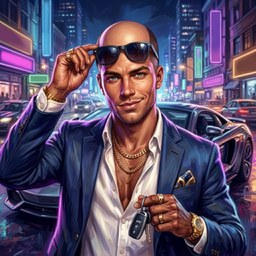
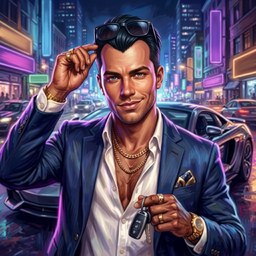
Duelo v41: Dudu com entradas

diff --git a/duelo/service-worker.js b/duelo/service-worker.js
@@ -1,4 +1,4 @@
-const CACHE="duelo-v40";
+const CACHE="duelo-v41";
 const FILES=["./","index.html","manifest.webmanifest","icon-192-v2.png","icon-512-v2.png","icon-mask-v2.png","img/a_n20.jpg","img/a_n21.jpg","img/a_n22.jpg","img/a_n23.jpg","img/a_n24.jpg","img/a_n25.jpg","img/a_n26.jpg","img/a_n27.jpg","img/a_n28.jpg","img/a_n29.jpg","img/a_n30.jpg","img/a_g8.jpg","img/a_c5.jpg","img/a_o6.jpg","img/a_z7.jpg","img/a_z8.jpg","img/a_d1.jpg","img/a_d3.jpg","img/a_d5.jpg","img/a_d6.jpg","img/a_i1.jpg","img/a_i2.jpg","img/a_i3.jpg","img/a_i5.jpg","img/a_i6.jpg","img/a_i7.jpg","img/a_pi1.jpg","img/a_pi2.jpg","img/a_pi3.jpg","img/a_pi4.jpg","img/a_pi5.jpg","img/a_pi6.jpg","img/a_pi7.jpg","img/a_pi8.jpg","img/a_pi9.jpg","img/a_pi10.jpg","img/a_pi11.jpg","img/a_pi12.jpg","img/a_te1.jpg","img/a_te2.jpg","img/a_te3.jpg","img/a_te4.jpg","img/a_te5.jpg","img/a_te6.jpg","img/a_te7.jpg","img/a_te8.jpg","img/a_te9.jpg","img/a_te10.jpg","img/a_te11.jpg","img/a_te12.jpg","img/a_du1.jpg","img/a_du2.jpg","img/a_du3.jpg","img/a_du4.jpg","img/a_du5.jpg","img/a_du6.jpg","img/a_du7.jpg","img/a_du8.jpg","img/a_du9.jpg","img/a_du10.jpg","img/a_du11.jpg","img/a_du12.jpg","img/a_sn1.jpg","img/a_sn2.jpg","img/a_sn3.jpg","img/a_sn4.jpg","img/a_sn5.jpg","img/a_sn6.jpg","img/a_sn7.jpg","img/a_sn8.jpg","img/a_sn9.jpg","img/a_sn10.jpg","img/a_sn11.jpg","img/a_sn12.jpg","img/a_ca1.jpg","img/a_ca2.jpg","img/a_ca3.jpg","img/a_ca4.jpg","img/a_ca5.jpg","img/a_ca6.jpg","img/a_ca7.jpg","img/a_ca8.jpg","img/a_ca9.jpg","img/a_ca10.jpg","img/a_ca11.jpg","img/a_ca12.jpg","img/a_ne1.jpg","img/a_ne2.jpg","img/a_ne3.jpg","img/a_ne4.jpg","img/a_ne5.jpg","img/a_ne6.jpg","img/a_ne7.jpg","img/a_ne8.jpg","img/a_ne9.jpg","img/a_ne10.jpg","img/a_ne11.jpg","img/a_ne12.jpg","img/a_b1.jpg","img/a_b2.jpg","img/a_b3.jpg","img/a_b4.jpg","img/a_b5.jpg","img/a_b6.jpg","img/a_b7.jpg","img/e1.jpg","img/e2.jpg","img/e3.jpg","img/e4.jpg","img/e5.jpg","img/intro_carta.png","img/intro_dragao.jpg","img/intro_fogo.mp3","img/intro_hora.mp3","img/m1.jpg","img/m10.jpg","img/m11.jpg","img/m12.jpg","img/m13.jpg","img/m14.jpg","img/m15.jpg","img/m16.jpg","img/m17.jpg","img/m18.jpg","img/m19.jpg","img/m2.jpg","img/m20.jpg","img/m21.jpg","img/m3.jpg","img/m4.jpg","img/m5.jpg","img/m6.jpg","img/m7.jpg","img/m8.jpg","img/m9.jpg","img/n1.jpg","img/n10.jpg","img/n11.jpg","img/n12.jpg","img/n13.jpg","img/n14.jpg","img/n15.jpg","img/n16.jpg","img/n17.jpg","img/n18.jpg","img/n2.jpg","img/n3.jpg","img/n4.jpg","img/n5.jpg","img/n6.jpg","img/n7.jpg","img/n8.jpg","img/n9.jpg","img/p_caio.jpg","img/p_dudu.jpg","img/p_iara.jpg","img/p_milao.jpg","img/p_nando.jpg","img/p_neri.jpg","img/p_otavio.jpg","img/p_pimp.jpg","img/p_snaf.jpg","img/p_telo.jpg","img/p_tiao.jpg","img/p_zeca.jpg","img/s1.jpg","img/s2.jpg","img/s3.jpg","img/s4.jpg","img/s5.jpg","img/s6.jpg","img/s7.jpg","img/s8.jpg","img/s9.jpg","img/t1.jpg","img/t2.jpg","img/t3.jpg","img/t4.jpg","voz/cabeca/atk0.mp3","voz/cabeca/atk1.mp3","voz/cabeca/atk2.mp3","voz/cabeca/atk3.mp3","voz/cabeca/atk4.mp3","voz/cabeca/c_ca10.mp3","voz/cabeca/c_ca11.mp3","voz/cabeca/c_ca12.mp3","voz/cabeca/c_ca9.mp3","voz/cabeca/c_g1.mp3","voz/cabeca/c_g2.mp3","voz/cabeca/c_g3.mp3","voz/cabeca/c_g4.mp3","voz/cabeca/c_g5.mp3","voz/cabeca/c_g6.mp3","voz/cabeca/c_g7.mp3","voz/cabeca/c_g8.mp3","voz/cabeca/c_n20.mp3","voz/cabeca/c_n22.mp3","voz/cabeca/c_n24.mp3","voz/cabeca/c_s2.mp3","voz/cabeca/c_s3.mp3","voz/cabeca/c_s4.mp3","voz/cabeca/c_s5.mp3","voz/cabeca/c_s7.mp3","voz/cabeca/c_t1.mp3","voz/cabeca/c_t2.mp3","voz/cabeca/c_t3.mp3","voz/cabeca/c_t4.mp3","voz/cabeca/dano0.mp3","voz/cabeca/dano1.mp3","voz/cabeca/dano2.mp3","voz/cabeca/dano3.mp3","voz/cabeca/dano4.mp3","voz/cabeca/dano5.mp3","voz/cabeca/ganhei0.mp3","voz/cabeca/inicio0.mp3","voz/cabeca/inv0.mp3","voz/cabeca/inv1.mp3","voz/cabeca/inv2.mp3","voz/cabeca/inv3.mp3","voz/cabeca/inv4.mp3","voz/cabeca/magia0.mp3","voz/cabeca/magia1.mp3","voz/cabeca/magia2.mp3","voz/cabeca/magia3.mp3","voz/cabeca/pass0.mp3","voz/cabeca/pass1.mp3","voz/cabeca/pass2.mp3","voz/cabeca/pass3.mp3","voz/cabeca/perdi0.mp3","voz/cabeca/perdi1.mp3","voz/cabeca/reage0.mp3","voz/cabeca/reage1.mp3","voz/cabeca/reage2.mp3","voz/cabeca/reage3.mp3","voz/cabeca/reage4.mp3","voz/cabeca/reage5.mp3","voz/cabeca/reage6.mp3","voz/cabeca/reage7.mp3","voz/cabeca/susto0.mp3","voz/cabeca/susto1.mp3","voz/cabeca/susto2.mp3","voz/cabeca/susto3.mp3","voz/caio/atk0.mp3","voz/caio/atk1.mp3","voz/caio/atk2.mp3","voz/caio/atk3.mp3","voz/caio/atk4.mp3","voz/caio/c_g1.mp3","voz/caio/c_g2.mp3","voz/caio/c_g3.mp3","voz/caio/c_g4.mp3","voz/caio/c_g5.mp3","voz/caio/c_g7.mp3","voz/caio/c_n3.mp3","voz/caio/c_s1.mp3","voz/caio/c_s3.mp3","voz/caio/c_s4.mp3","voz/caio/c_s5.mp3","voz/caio/c_s6.mp3","voz/caio/c_s7.mp3","voz/caio/c_s8.mp3","voz/caio/c_s9.mp3","voz/caio/c_t1.mp3","voz/caio/c_t2.mp3","voz/caio/c_t3.mp3","voz/caio/c_t4.mp3","voz/caio/dano0.mp3","voz/caio/dano1.mp3","voz/caio/dano2.mp3","voz/caio/dano3.mp3","voz/caio/dano4.mp3","voz/caio/dano5.mp3","voz/caio/ganhei0.mp3","voz/caio/inicio0.mp3","voz/caio/inv0.mp3","voz/caio/inv1.mp3","voz/caio/inv2.mp3","voz/caio/inv3.mp3","voz/caio/inv4.mp3","voz/caio/magia0.mp3","voz/caio/magia1.mp3","voz/caio/magia2.mp3","voz/caio/magia3.mp3","voz/caio/pass0.mp3","voz/caio/pass1.mp3","voz/caio/pass2.mp3","voz/caio/pass3.mp3","voz/caio/perdi0.mp3","voz/caio/perdi1.mp3","voz/caio/reage0.mp3","voz/caio/reage1.mp3","voz/caio/reage2.mp3","voz/caio/reage3.mp3","voz/caio/reage4.mp3","voz/caio/reage5.mp3","voz/caio/reage6.mp3","voz/caio/reage7.mp3","voz/caio/susto0.mp3","voz/caio/susto1.mp3","voz/caio/susto2.mp3","voz/caio/susto3.mp3","voz/conde/atk0.mp3","voz/conde/atk1.mp3","voz/conde/atk2.mp3","voz/conde/atk3.mp3","voz/conde/atk4.mp3","voz/conde/c_b2.mp3","voz/conde/c_b3.mp3","voz/conde/c_b4.mp3","voz/conde/c_g1.mp3","voz/conde/c_g2.mp3","voz/conde/c_g3.mp3","voz/conde/c_g4.mp3","voz/conde/c_g5.mp3","voz/conde/c_g6.mp3","voz/conde/c_g7.mp3","voz/conde/c_n18.mp3","voz/conde/c_n3.mp3","voz/conde/c_s1.mp3","voz/conde/c_s3.mp3","voz/conde/c_s4.mp3","voz/conde/c_s5.mp3","voz/conde/c_s6.mp3","voz/conde/c_s7.mp3","voz/conde/c_s8.mp3","voz/conde/c_s9.mp3","voz/conde/c_t1.mp3","voz/conde/c_t2.mp3","voz/conde/c_t3.mp3","voz/conde/c_t4.mp3","voz/conde/dano0.mp3","voz/conde/dano1.mp3","voz/conde/dano2.mp3","voz/conde/dano3.mp3","voz/conde/dano4.mp3","voz/conde/dano5.mp3","voz/conde/ganhei0.mp3","voz/conde/inicio0.mp3","voz/conde/inv0.mp3","voz/conde/inv1.mp3","voz/conde/inv2.mp3","voz/conde/inv3.mp3","voz/conde/inv4.mp3","voz/conde/magia0.mp3","voz/conde/magia1.mp3","voz/conde/magia2.mp3","voz/conde/magia3.mp3","voz/conde/pass0.mp3","voz/conde/pass1.mp3","voz/conde/pass2.mp3","voz/conde/pass3.mp3","voz/conde/perdi0.mp3","voz/conde/perdi1.mp3","voz/conde/reage0.mp3","voz/conde/reage1.mp3","voz/conde/reage2.mp3","voz/conde/reage3.mp3","voz/conde/reage4.mp3","voz/conde/reage5.mp3","voz/conde/reage6.mp3","voz/conde/reage7.mp3","voz/conde/susto0.mp3","voz/conde/susto1.mp3","voz/conde/susto2.mp3","voz/conde/susto3.mp3","voz/dudu/atk0.mp3","voz/dudu/atk1.mp3","voz/dudu/atk2.mp3","voz/dudu/atk3.mp3","voz/dudu/atk4.mp3","voz/dudu/c_du10.mp3","voz/dudu/c_du11.mp3","voz/dudu/c_du12.mp3","voz/dudu/c_du9.mp3","voz/dudu/c_g1.mp3","voz/dudu/c_g2.mp3","voz/dudu/c_g3.mp3","voz/dudu/c_g4.mp3","voz/dudu/c_g5.mp3","voz/dudu/c_g6.mp3","voz/dudu/c_g7.mp3","voz/dudu/c_n11.mp3","voz/dudu/c_n7.mp3","voz/dudu/c_s2.mp3","voz/dudu/c_s3.mp3","voz/dudu/c_s4.mp3","voz/dudu/c_s5.mp3","voz/dudu/c_s7.mp3","voz/dudu/c_s8.mp3","voz/dudu/c_s9.mp3","voz/dudu/c_t1.mp3","voz/dudu/c_t2.mp3","voz/dudu/c_t3.mp3","voz/dudu/c_t4.mp3","voz/dudu/dano0.mp3","voz/dudu/dano1.mp3","voz/dudu/dano2.mp3","voz/dudu/dano3.mp3","voz/dudu/dano4.mp3","voz/dudu/dano5.mp3","voz/dudu/ganhei0.mp3","voz/dudu/inicio0.mp3","voz/dudu/inv0.mp3","voz/dudu/inv1.mp3","voz/dudu/inv2.mp3","voz/dudu/inv3.mp3","voz/dudu/inv4.mp3","voz/dudu/magia0.mp3","voz/dudu/magia1.mp3","voz/dudu/magia2.mp3","voz/dudu/magia3.mp3","voz/dudu/pass0.mp3","voz/dudu/pass1.mp3","voz/dudu/pass2.mp3","voz/dudu/pass3.mp3","voz/dudu/perdi0.mp3","voz/dudu/perdi1.mp3","voz/dudu/reage0.mp3","voz/dudu/reage1.mp3","voz/dudu/reage2.mp3","voz/dudu/reage3.mp3","voz/dudu/reage4.mp3","voz/dudu/reage5.mp3","voz/dudu/reage6.mp3","voz/dudu/reage7.mp3","voz/dudu/susto0.mp3","voz/dudu/susto1.mp3","voz/dudu/susto2.mp3","voz/dudu/susto3.mp3","voz/iara/atk0.mp3","voz/iara/atk1.mp3","voz/iara/atk2.mp3","voz/iara/atk3.mp3","voz/iara/atk4.mp3","voz/iara/c_g1.mp3","voz/iara/c_g2.mp3","voz/iara/c_g3.mp3","voz/iara/c_g4.mp3","voz/iara/c_g5.mp3","voz/iara/c_g6.mp3","voz/iara/c_g7.mp3","voz/iara/c_g8.mp3","voz/iara/c_i6.mp3","voz/iara/c_i7.mp3","voz/iara/c_n24.mp3","voz/iara/c_n30.mp3","voz/iara/c_s3.mp3","voz/iara/c_s4.mp3","voz/iara/c_s5.mp3","voz/iara/c_s6.mp3","voz/iara/c_s7.mp3","voz/iara/c_s8.mp3","voz/iara/c_s9.mp3","voz/iara/c_t1.mp3","voz/iara/c_t2.mp3","voz/iara/c_t3.mp3","voz/iara/c_t4.mp3","voz/iara/dano0.mp3","voz/iara/dano1.mp3","voz/iara/dano2.mp3","voz/iara/dano3.mp3","voz/iara/dano4.mp3","voz/iara/dano5.mp3","voz/iara/ganhei0.mp3","voz/iara/inicio0.mp3","voz/iara/inv0.mp3","voz/iara/inv1.mp3","voz/iara/inv2.mp3","voz/iara/inv3.mp3","voz/iara/inv4.mp3","voz/iara/magia0.mp3","voz/iara/magia1.mp3","voz/iara/magia2.mp3","voz/iara/magia3.mp3","voz/iara/pass0.mp3","voz/iara/pass1.mp3","voz/iara/pass2.mp3","voz/iara/pass3.mp3","voz/iara/perdi0.mp3","voz/iara/perdi1.mp3","voz/iara/reage0.mp3","voz/iara/reage1.mp3","voz/iara/reage2.mp3","voz/iara/reage3.mp3","voz/iara/reage4.mp3","voz/iara/reage5.mp3","voz/iara/reage6.mp3","voz/iara/reage7.mp3","voz/iara/susto0.mp3","voz/iara/susto1.mp3","voz/iara/susto2.mp3","voz/iara/susto3.mp3","voz/nando/atk0.mp3","voz/nando/atk1.mp3","voz/nando/atk2.mp3","voz/nando/atk3.mp3","voz/nando/atk4.mp3","voz/nando/c_d6.mp3","voz/nando/c_g1.mp3","voz/nando/c_g2.mp3","voz/nando/c_g3.mp3","voz/nando/c_g4.mp3","voz/nando/c_g5.mp3","voz/nando/c_g6.mp3","voz/nando/c_g7.mp3","voz/nando/c_g8.mp3","voz/nando/c_n20.mp3","voz/nando/c_n22.mp3","voz/nando/c_n23.mp3","voz/nando/c_n24.mp3","voz/nando/c_s2.mp3","voz/nando/c_s3.mp3","voz/nando/c_s4.mp3","voz/nando/c_s5.mp3","voz/nando/c_s7.mp3","voz/nando/c_s8.mp3","voz/nando/c_t1.mp3","voz/nando/c_t2.mp3","voz/nando/c_t3.mp3","voz/nando/c_t4.mp3","voz/nando/dano0.mp3","voz/nando/dano1.mp3","voz/nando/dano2.mp3","voz/nando/dano3.mp3","voz/nando/dano4.mp3","voz/nando/dano5.mp3","voz/nando/ganhei0.mp3","voz/nando/inicio0.mp3","voz/nando/inv0.mp3","voz/nando/inv1.mp3","voz/nando/inv2.mp3","voz/nando/inv3.mp3","voz/nando/inv4.mp3","voz/nando/magia0.mp3","voz/nando/magia1.mp3","voz/nando/magia2.mp3","voz/nando/magia3.mp3","voz/nando/pass0.mp3","voz/nando/pass1.mp3","voz/nando/pass2.mp3","voz/nando/pass3.mp3","voz/nando/perdi0.mp3","voz/nando/perdi1.mp3","voz/nando/reage0.mp3","voz/nando/reage1.mp3","voz/nando/reage2.mp3","voz/nando/reage3.mp3","voz/nando/reage4.mp3","voz/nando/reage5.mp3","voz/nando/reage6.mp3","voz/nando/reage7.mp3","voz/nando/susto0.mp3","voz/nando/susto1.mp3","voz/nando/susto2.mp3","voz/nando/susto3.mp3","voz/neri/atk0.mp3","voz/neri/atk1.mp3","voz/neri/atk2.mp3","voz/neri/atk3.mp3","voz/neri/atk4.mp3","voz/neri/c_g1.mp3","voz/neri/c_g2.mp3","voz/neri/c_g3.mp3","voz/neri/c_g4.mp3","voz/neri/c_g5.mp3","voz/neri/c_g6.mp3","voz/neri/c_g7.mp3","voz/neri/c_g8.mp3","voz/neri/c_n24.mp3","voz/neri/c_ne10.mp3","voz/neri/c_ne11.mp3","voz/neri/c_ne12.mp3","voz/neri/c_ne9.mp3","voz/neri/c_s3.mp3","voz/neri/c_s4.mp3","voz/neri/c_s5.mp3","voz/neri/c_s6.mp3","voz/neri/c_s7.mp3","voz/neri/c_s8.mp3","voz/neri/c_s9.mp3","voz/neri/c_t1.mp3","voz/neri/c_t2.mp3","voz/neri/c_t3.mp3","voz/neri/c_t4.mp3","voz/neri/dano0.mp3","voz/neri/dano1.mp3","voz/neri/dano2.mp3","voz/neri/dano3.mp3","voz/neri/dano4.mp3","voz/neri/dano5.mp3","voz/neri/ganhei0.mp3","voz/neri/inicio0.mp3","voz/neri/inv0.mp3","voz/neri/inv1.mp3","voz/neri/inv2.mp3","voz/neri/inv3.mp3","voz/neri/inv4.mp3","voz/neri/magia0.mp3","voz/neri/magia1.mp3","voz/neri/magia2.mp3","voz/neri/magia3.mp3","voz/neri/pass0.mp3","voz/neri/pass1.mp3","voz/neri/pass2.mp3","voz/neri/pass3.mp3","voz/neri/perdi0.mp3","voz/neri/perdi1.mp3","voz/neri/reage0.mp3","voz/neri/reage1.mp3","voz/neri/reage2.mp3","voz/neri/reage3.mp3","voz/neri/reage4.mp3","voz/neri/reage5.mp3","voz/neri/reage6.mp3","voz/neri/reage7.mp3","voz/neri/susto0.mp3","voz/neri/susto1.mp3","voz/neri/susto2.mp3","voz/neri/susto3.mp3","voz/otavio/atk0.mp3","voz/otavio/atk1.mp3","voz/otavio/atk2.mp3","voz/otavio/atk3.mp3","voz/otavio/atk4.mp3","voz/otavio/c_g1.mp3","voz/otavio/c_g2.mp3","voz/otavio/c_g3.mp3","voz/otavio/c_g4.mp3","voz/otavio/c_g5.mp3","voz/otavio/c_g6.mp3","voz/otavio/c_g7.mp3","voz/otavio/c_n7.mp3","voz/otavio/c_s1.mp3","voz/otavio/c_s2.mp3","voz/otavio/c_s3.mp3","voz/otavio/c_s4.mp3","voz/otavio/c_s5.mp3","voz/otavio/c_s7.mp3","voz/otavio/c_s8.mp3","voz/otavio/c_s9.mp3","voz/otavio/c_t1.mp3","voz/otavio/c_t2.mp3","voz/otavio/c_t3.mp3","voz/otavio/c_t4.mp3","voz/otavio/dano0.mp3","voz/otavio/dano1.mp3","voz/otavio/dano2.mp3","voz/otavio/dano3.mp3","voz/otavio/dano4.mp3","voz/otavio/dano5.mp3","voz/otavio/ganhei0.mp3","voz/otavio/inicio0.mp3","voz/otavio/inv0.mp3","voz/otavio/inv1.mp3","voz/otavio/inv2.mp3","voz/otavio/inv3.mp3","voz/otavio/inv4.mp3","voz/otavio/magia0.mp3","voz/otavio/magia1.mp3","voz/otavio/magia2.mp3","voz/otavio/magia3.mp3","voz/otavio/pass0.mp3","voz/otavio/pass1.mp3","voz/otavio/pass2.mp3","voz/otavio/pass3.mp3","voz/otavio/perdi0.mp3","voz/otavio/perdi1.mp3","voz/otavio/reage0.mp3","voz/otavio/reage1.mp3","voz/otavio/reage2.mp3","voz/otavio/reage3.mp3","voz/otavio/reage4.mp3","voz/otavio/reage5.mp3","voz/otavio/reage6.mp3","voz/otavio/reage7.mp3","voz/otavio/susto0.mp3","voz/otavio/susto1.mp3","voz/otavio/susto2.mp3","voz/otavio/susto3.mp3","voz/pimp/atk0.mp3","voz/pimp/atk1.mp3","voz/pimp/atk2.mp3","voz/pimp/atk3.mp3","voz/pimp/atk4.mp3","voz/pimp/c_g1.mp3","voz/pimp/c_g2.mp3","voz/pimp/c_g3.mp3","voz/pimp/c_g4.mp3","voz/pimp/c_g5.mp3","voz/pimp/c_g6.mp3","voz/pimp/c_g7.mp3","voz/pimp/c_g8.mp3","voz/pimp/c_n23.mp3","voz/pimp/c_n24.mp3","voz/pimp/c_pi10.mp3","voz/pimp/c_pi11.mp3","voz/pimp/c_pi12.mp3","voz/pimp/c_pi9.mp3","voz/pimp/c_s2.mp3","voz/pimp/c_s3.mp3","voz/pimp/c_s4.mp3","voz/pimp/c_s5.mp3","voz/pimp/c_s7.mp3","voz/pimp/c_s8.mp3","voz/pimp/c_s9.mp3","voz/pimp/c_t1.mp3","voz/pimp/c_t2.mp3","voz/pimp/c_t3.mp3","voz/pimp/c_t4.mp3","voz/pimp/dano0.mp3","voz/pimp/dano1.mp3","voz/pimp/dano2.mp3","voz/pimp/dano3.mp3","voz/pimp/dano4.mp3","voz/pimp/dano5.mp3","voz/pimp/ganhei0.mp3","voz/pimp/inicio0.mp3","voz/pimp/inv0.mp3","voz/pimp/inv1.mp3","voz/pimp/inv2.mp3","voz/pimp/inv3.mp3","voz/pimp/inv4.mp3","voz/pimp/magia0.mp3","voz/pimp/magia1.mp3","voz/pimp/magia2.mp3","voz/pimp/magia3.mp3","voz/pimp/pass0.mp3","voz/pimp/pass1.mp3","voz/pimp/pass2.mp3","voz/pimp/pass3.mp3","voz/pimp/perdi0.mp3","voz/pimp/perdi1.mp3","voz/pimp/reage0.mp3","voz/pimp/reage1.mp3","voz/pimp/reage2.mp3","voz/pimp/reage3.mp3","voz/pimp/reage4.mp3","voz/pimp/reage5.mp3","voz/pimp/reage6.mp3","voz/pimp/reage7.mp3","voz/pimp/susto0.mp3","voz/pimp/susto1.mp3","voz/pimp/susto2.mp3","voz/pimp/susto3.mp3","voz/snaf/atk0.mp3","voz/snaf/atk1.mp3","voz/snaf/atk2.mp3","voz/snaf/atk3.mp3","voz/snaf/atk4.mp3","voz/snaf/c_g1.mp3","voz/snaf/c_g2.mp3","voz/snaf/c_g3.mp3","voz/snaf/c_g4.mp3","voz/snaf/c_g5.mp3","voz/snaf/c_g6.mp3","voz/snaf/c_g7.mp3","voz/snaf/c_g8.mp3","voz/snaf/c_n24.mp3","voz/snaf/c_s2.mp3","voz/snaf/c_s3.mp3","voz/snaf/c_s4.mp3","voz/snaf/c_s5.mp3","voz/snaf/c_s7.mp3","voz/snaf/c_s8.mp3","voz/snaf/c_s9.mp3","voz/snaf/c_sn10.mp3","voz/snaf/c_sn11.mp3","voz/snaf/c_sn12.mp3","voz/snaf/c_sn9.mp3","voz/snaf/c_t1.mp3","voz/snaf/c_t2.mp3","voz/snaf/c_t3.mp3","voz/snaf/c_t4.mp3","voz/snaf/dano0.mp3","voz/snaf/dano1.mp3","voz/snaf/dano2.mp3","voz/snaf/dano3.mp3","voz/snaf/dano4.mp3","voz/snaf/dano5.mp3","voz/snaf/ganhei0.mp3","voz/snaf/inicio0.mp3","voz/snaf/inv0.mp3","voz/snaf/inv1.mp3","voz/snaf/inv2.mp3","voz/snaf/inv3.mp3","voz/snaf/inv4.mp3","voz/snaf/magia0.mp3","voz/snaf/magia1.mp3","voz/snaf/magia2.mp3","voz/snaf/magia3.mp3","voz/snaf/pass0.mp3","voz/snaf/pass1.mp3","voz/snaf/pass2.mp3","voz/snaf/pass3.mp3","voz/snaf/perdi0.mp3","voz/snaf/perdi1.mp3","voz/snaf/reage0.mp3","voz/snaf/reage1.mp3","voz/snaf/reage2.mp3","voz/snaf/reage3.mp3","voz/snaf/reage4.mp3","voz/snaf/reage5.mp3","voz/snaf/reage6.mp3","voz/snaf/reage7.mp3","voz/snaf/susto0.mp3","voz/snaf/susto1.mp3","voz/snaf/susto2.mp3","voz/snaf/susto3.mp3","voz/telo/atk0.mp3","voz/telo/atk1.mp3","voz/telo/atk2.mp3","voz/telo/atk3.mp3","voz/telo/atk4.mp3","voz/telo/c_g1.mp3","voz/telo/c_g2.mp3","voz/telo/c_g3.mp3","voz/telo/c_g4.mp3","voz/telo/c_g5.mp3","voz/telo/c_g6.mp3","voz/telo/c_g7.mp3","voz/telo/c_g8.mp3","voz/telo/c_n24.mp3","voz/telo/c_s1.mp3","voz/telo/c_s3.mp3","voz/telo/c_s4.mp3","voz/telo/c_s5.mp3","voz/telo/c_s7.mp3","voz/telo/c_s8.mp3","voz/telo/c_t1.mp3","voz/telo/c_t2.mp3","voz/telo/c_t3.mp3","voz/telo/c_t4.mp3","voz/telo/c_te10.mp3","voz/telo/c_te11.mp3","voz/telo/c_te12.mp3","voz/telo/c_te9.mp3","voz/telo/dano0.mp3","voz/telo/dano1.mp3","voz/telo/dano2.mp3","voz/telo/dano3.mp3","voz/telo/dano4.mp3","voz/telo/dano5.mp3","voz/telo/ganhei0.mp3","voz/telo/inicio0.mp3","voz/telo/inv0.mp3","voz/telo/inv1.mp3","voz/telo/inv2.mp3","voz/telo/inv3.mp3","voz/telo/inv4.mp3","voz/telo/magia0.mp3","voz/telo/magia1.mp3","voz/telo/magia2.mp3","voz/telo/magia3.mp3","voz/telo/pass0.mp3","voz/telo/pass1.mp3","voz/telo/pass2.mp3","voz/telo/pass3.mp3","voz/telo/perdi0.mp3","voz/telo/perdi1.mp3","voz/telo/reage0.mp3","voz/telo/reage1.mp3","voz/telo/reage2.mp3","voz/telo/reage3.mp3","voz/telo/reage4.mp3","voz/telo/reage5.mp3","voz/telo/reage6.mp3","voz/telo/reage7.mp3","voz/telo/susto0.mp3","voz/telo/susto1.mp3","voz/telo/susto2.mp3","voz/telo/susto3.mp3","voz/tiao/atk0.mp3","voz/tiao/atk1.mp3","voz/tiao/atk2.mp3","voz/tiao/atk3.mp3","voz/tiao/atk4.mp3","voz/tiao/c_g1.mp3","voz/tiao/c_g2.mp3","voz/tiao/c_g3.mp3","voz/tiao/c_g4.mp3","voz/tiao/c_g5.mp3","voz/tiao/c_g6.mp3","voz/tiao/c_g7.mp3","voz/tiao/c_g8.mp3","voz/tiao/c_h7.mp3","voz/tiao/c_h8.mp3","voz/tiao/c_n11.mp3","voz/tiao/c_n12.mp3","voz/tiao/c_s3.mp3","voz/tiao/c_s4.mp3","voz/tiao/c_s5.mp3","voz/tiao/c_s7.mp3","voz/tiao/c_s8.mp3","voz/tiao/c_s9.mp3","voz/tiao/c_t1.mp3","voz/tiao/c_t2.mp3","voz/tiao/c_t3.mp3","voz/tiao/c_t4.mp3","voz/tiao/dano0.mp3","voz/tiao/dano1.mp3","voz/tiao/dano2.mp3","voz/tiao/dano3.mp3","voz/tiao/dano4.mp3","voz/tiao/dano5.mp3","voz/tiao/ganhei0.mp3","voz/tiao/inicio0.mp3","voz/tiao/inv0.mp3","voz/tiao/inv1.mp3","voz/tiao/inv2.mp3","voz/tiao/inv3.mp3","voz/tiao/inv4.mp3","voz/tiao/magia0.mp3","voz/tiao/magia1.mp3","voz/tiao/magia2.mp3","voz/tiao/magia3.mp3","voz/tiao/pass0.mp3","voz/tiao/pass1.mp3","voz/tiao/pass2.mp3","voz/tiao/pass3.mp3","voz/tiao/perdi0.mp3","voz/tiao/perdi1.mp3","voz/tiao/reage0.mp3","voz/tiao/reage1.mp3","voz/tiao/reage2.mp3","voz/tiao/reage3.mp3","voz/tiao/reage4.mp3","voz/tiao/reage5.mp3","voz/tiao/reage6.mp3","voz/tiao/reage7.mp3","voz/tiao/susto0.mp3","voz/tiao/susto1.mp3","voz/tiao/susto2.mp3","voz/tiao/susto3.mp3","voz/zeca/atk0.mp3","voz/zeca/atk1.mp3","voz/zeca/atk2.mp3","voz/zeca/atk3.mp3","voz/zeca/atk4.mp3","voz/zeca/c_g1.mp3","voz/zeca/c_g2.mp3","voz/zeca/c_g3.mp3","voz/zeca/c_g4.mp3","voz/zeca/c_g5.mp3","voz/zeca/c_g6.mp3","voz/zeca/c_g7.mp3","voz/zeca/c_g8.mp3","voz/zeca/c_n12.mp3","voz/zeca/c_n18.mp3","voz/zeca/c_s3.mp3","voz/zeca/c_s4.mp3","voz/zeca/c_s5.mp3","voz/zeca/c_s6.mp3","voz/zeca/c_s7.mp3","voz/zeca/c_s8.mp3","voz/zeca/c_s9.mp3","voz/zeca/c_t1.mp3","voz/zeca/c_t2.mp3","voz/zeca/c_t3.mp3","voz/zeca/c_t4.mp3","voz/zeca/c_z6.mp3","voz/zeca/c_z7.mp3","voz/zeca/c_z8.mp3","voz/zeca/dano0.mp3","voz/zeca/dano1.mp3","voz/zeca/dano2.mp3","voz/zeca/dano3.mp3","voz/zeca/dano4.mp3","voz/zeca/dano5.mp3","voz/zeca/ganhei0.mp3","voz/zeca/inicio0.mp3","voz/zeca/inv0.mp3","voz/zeca/inv1.mp3","voz/zeca/inv2.mp3","voz/zeca/inv3.mp3","voz/zeca/inv4.mp3","voz/zeca/magia0.mp3","voz/zeca/magia1.mp3","voz/zeca/magia2.mp3","voz/zeca/magia3.mp3","voz/zeca/pass0.mp3","voz/zeca/pass1.mp3","voz/zeca/pass2.mp3","voz/zeca/pass3.mp3","voz/zeca/perdi0.mp3","voz/zeca/perdi1.mp3","voz/zeca/reage0.mp3","voz/zeca/reage1.mp3","voz/zeca/reage2.mp3","voz/zeca/reage3.mp3","voz/zeca/reage4.mp3","voz/zeca/reage5.mp3","voz/zeca/reage6.mp3","voz/zeca/reage7.mp3","voz/zeca/susto0.mp3","voz/zeca/susto1.mp3","voz/zeca/susto2.mp3","voz/zeca/susto3.mp3"];
 self.addEventListener("install",e=>{self.skipWaiting();e.waitUntil(caches.open(CACHE).then(c=>Promise.all(FILES.map(f=>c.add(f).catch(()=>{})))));});
 self.addEventListener("activate",e=>{e.waitUntil(caches.keys().then(k=>Promise.all(k.filter(x=>x!==CACHE).map(x=>caches.delete(x)))).then(()=>self.clients.claim()));});

diff --git a/duelo/index.html b/duelo/index.html
@@ -116,7 +116,7 @@ input{font-size:18px;padding:10px;border-radius:10px;border:0;width:100%;text-al
   <button class="sec" onclick="regras()">📖 Regras</button>
   <div id="lobby" class="esc" style="margin-top:10px"></div>
  </div>
- <div id="verTag" style="font-size:11px;opacity:.6">versão 40</div>
+ <div id="verTag" style="font-size:11px;opacity:.6">versão 41</div>
 </div>
 
 <div id="escolha" class="esc"><h2 style="color:#fbbf24">Escolha seu duelista</h2><div id="persGrid"></div><button class="sec" onclick="voltaMenu()">⬅ Voltar</button></div>
